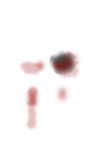
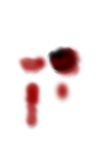
Updated images

Changed region(s): [[0.18, 0.2933, 0.81, 0.5067], [0.24, 0.5333, 0.42, 0.8533], [0.54, 0.5333, 0.72, 0.6667]]

diff --git a/src/com/jgw/framework/HeroHelicopter.java b/src/com/jgw/framework/HeroHelicopter.java
@@ -40,7 +40,7 @@ public class HeroHelicopter {
 
 	// Images
 	public BufferedImage heliBodyImg, heliProfileImg;
-	public BufferedImage heliProfileImg75, heliProfileImg50;
+	public BufferedImage heliProfileImg75, heliProfileImg50, heliProfileImg00;
 	private BufferedImage heliFrontPropellerAnimImg, heliRearPropellerAnimImg;
 
 	// Propeller animation
@@ -64,7 +64,7 @@ public class HeroHelicopter {
 
 	// Helicopter style
 	private String heliStyleStr, heliPlayerStr;
-	private String heliPlayerHealth75Str, heliPlayerHealth50Str;
+	private String heliPlayerHealth75Str, heliPlayerHealth50Str, heliPlayerHealth00Str;
 	public String style;
 
 	/**
@@ -257,6 +257,11 @@ public class HeroHelicopter {
 			URL heliProfileImgUrl50 = this.getClass().getResource(
 					heliPlayerHealth50Str);
 			heliProfileImg50 = ImageIO.read(heliProfileImgUrl50);
+
+			heliPlayerHealth00Str = "data/profile_health00.png";
+			URL heliProfileImgUrl00 = this.getClass().getResource(
+					heliPlayerHealth00Str);
+			heliProfileImg00 = ImageIO.read(heliProfileImgUrl00);
 
 			URL heliBodyImgUrl = this.getClass().getResource(heliStyleStr);
 			heliBodyImg = ImageIO.read(heliBodyImgUrl);
@@ -457,8 +462,10 @@ public class HeroHelicopter {
 	public void DrawAvatar(Graphics2D g2d) {
 		healthPercent = (health * 100.0f) / healthInit;
 		g2d.drawImage(heliProfileImg, 10, 17, null);
-		if (healthPercent <= 50) {
-			g2d.drawImage(heliProfileImg50, 10, 17, null);
+		if (healthPercent <= 0) {
+			g2d.drawImage(heliProfileImg00, 10, 17, null);
+		} else if (healthPercent <= 50) {
+				g2d.drawImage(heliProfileImg50, 10, 17, null);
 		} else if (healthPercent <= 75) {
 			g2d.drawImage(heliProfileImg75, 10, 17, null);
 		}

diff --git a/src/com/jgw/framework/Game.java b/src/com/jgw/framework/Game.java
@@ -314,9 +314,9 @@ public class Game {
 		// Player
 		if (isPlayerAlive()) {
 			player.Draw(g2d);
-			player.DrawAvatar(g2d);
 			statXCoord = 10 + player.heliProfileImg.getWidth() + 10;
 		}
+		player.DrawAvatar(g2d);
 
 		// Enemies
 		for (int i = 0; i < enemyHelicopterList.size(); i++) {
